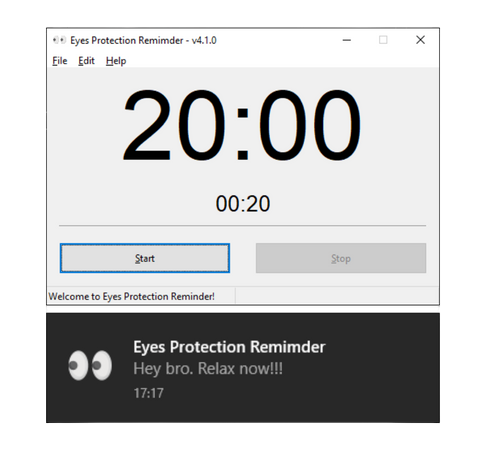
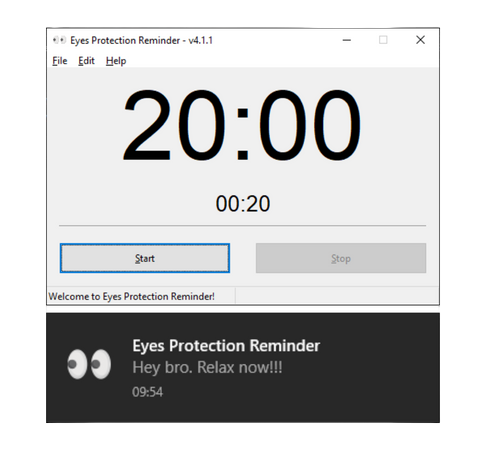
finish update v4.1.1

Changed region(s): [[0.2469, 0.745, 0.679, 0.9002], [0.1235, 0.7761, 0.2469, 0.8692], [0.3395, 0.0621, 0.463, 0.1242]]

diff --git a/source/src/UI/MainFrame.cpp b/source/src/UI/MainFrame.cpp
@@ -100,7 +100,7 @@ namespace EPR
 
 		// Set the information for about dialog
 		_aboutInfo.SetName(wxTheApp->GetAppName());
-		_aboutInfo.SetVersion("- v4.1.0");
+		_aboutInfo.SetVersion("- v4.1.1");
 		_aboutInfo.SetIcon(s_EPR_icon_64);
 		_aboutInfo.SetCopyright("Copyright (c) 2022 " + wxString::FromUTF8("Minh Vương.") + "\nAll rights reserved.");
 		_aboutInfo.SetDescription("A small tool to remind you to\nprotect your eyes with the 20:20:20 rule.");

diff --git a/source/src/Application.cpp b/source/src/Application.cpp
@@ -63,7 +63,7 @@ namespace EPR
         SetAppName("Eyes Protection Reminder");
 
         // Create the main frame
-        m_mainFrame = new MainFrame("Eyes Protection Reminder - v4.1.0", wxSize(500, 350));
+        m_mainFrame = new MainFrame("Eyes Protection Reminder - v4.1.1", wxSize(500, 350));
 
         if (m_mainFrame == nullptr)
         {

diff --git a/README.md b/README.md
@@ -6,7 +6,7 @@
 ![Languages](https://img.shields.io/github/languages/top/hardingadonis/Eyes_Protection_Reminder?style=flat)
 ![Repo Size](https://img.shields.io/github/repo-size/hardingadonis/Eyes_Protection_Reminder?style=flat)
 ![License](https://img.shields.io/github/license/hardingadonis/Eyes_Protection_Reminder?style=flat)
-[![Download](https://img.shields.io/github/downloads/hardingadonis/Eyes_Protection_Reminder/v4.1.0/total?style=flat)](https://github.com/hardingadonis/Eyes_Protection_Reminder/releases/tag/v4.1.0)
+[![Download](https://img.shields.io/github/downloads/hardingadonis/Eyes_Protection_Reminder/v4.1.1/total?style=flat)](https://github.com/hardingadonis/Eyes_Protection_Reminder/releases/tag/v4.1.1)
 
 ![EPR_banner](https://github.com/hardingadonis/Eyes_Protection_Reminder/blob/main/imgs/EPR_banner.png)
 
@@ -60,10 +60,10 @@ cmake --build . --target EPR
 ```
 
 - Run project
-  - Find an application that named `Eyes_Protection_Reminder_v4.1.0.Windows.x86.exe` or `Eyes_Protection_Reminder_v4.1.0.Windows.x64.exe`
+  - Find an application that named `Eyes_Protection_Reminder_v4.1.1.Windows.x86.exe` or `Eyes_Protection_Reminder_v4.1.1.Windows.x64.exe`
   - Now, run it!!!
 
-- Or, you can download the binary in [here](https://github.com/hardingadonis/Eyes_Protection_Reminder/releases/tag/v4.1.0)
+- Or, you can download the binary in [here](https://github.com/hardingadonis/Eyes_Protection_Reminder/releases/tag/v4.1.1)
 
 ## License
 
